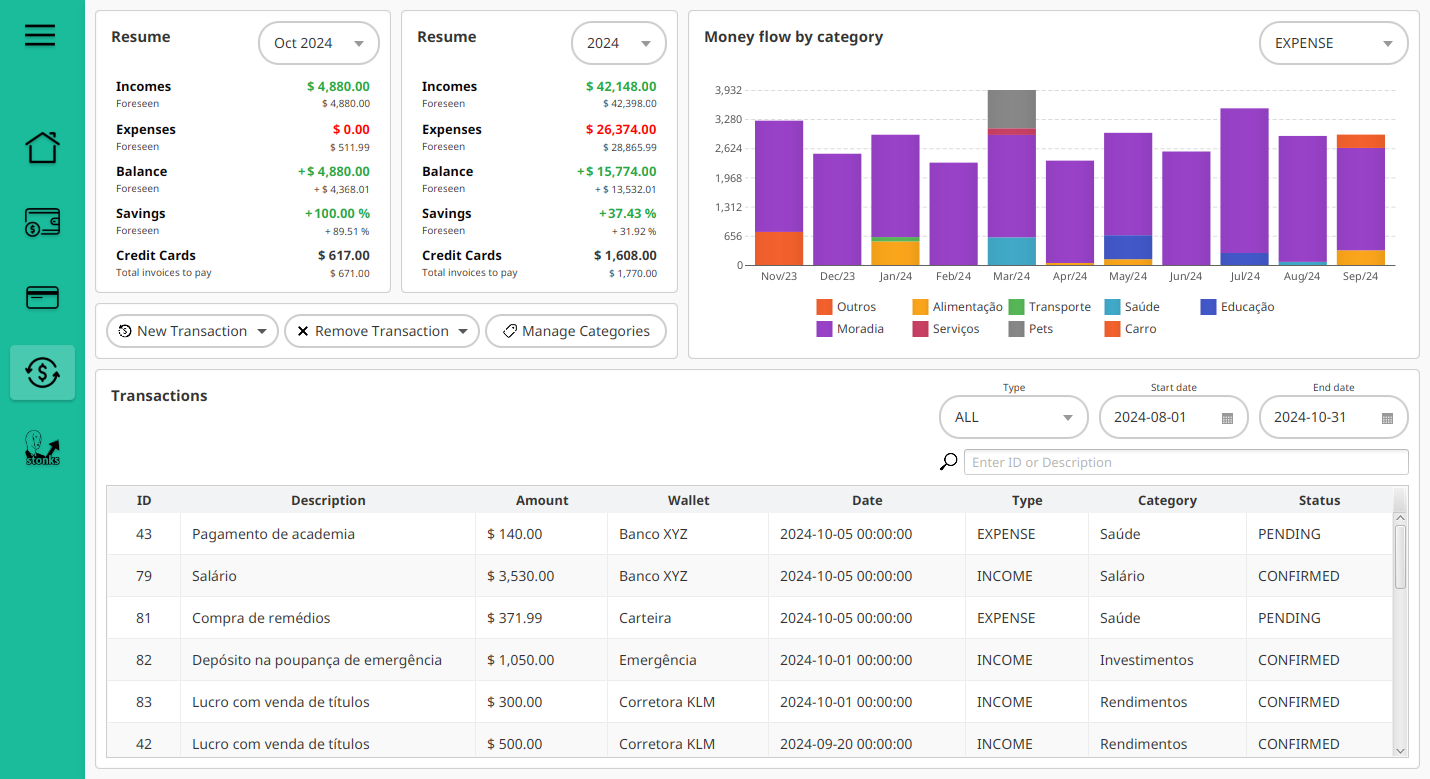
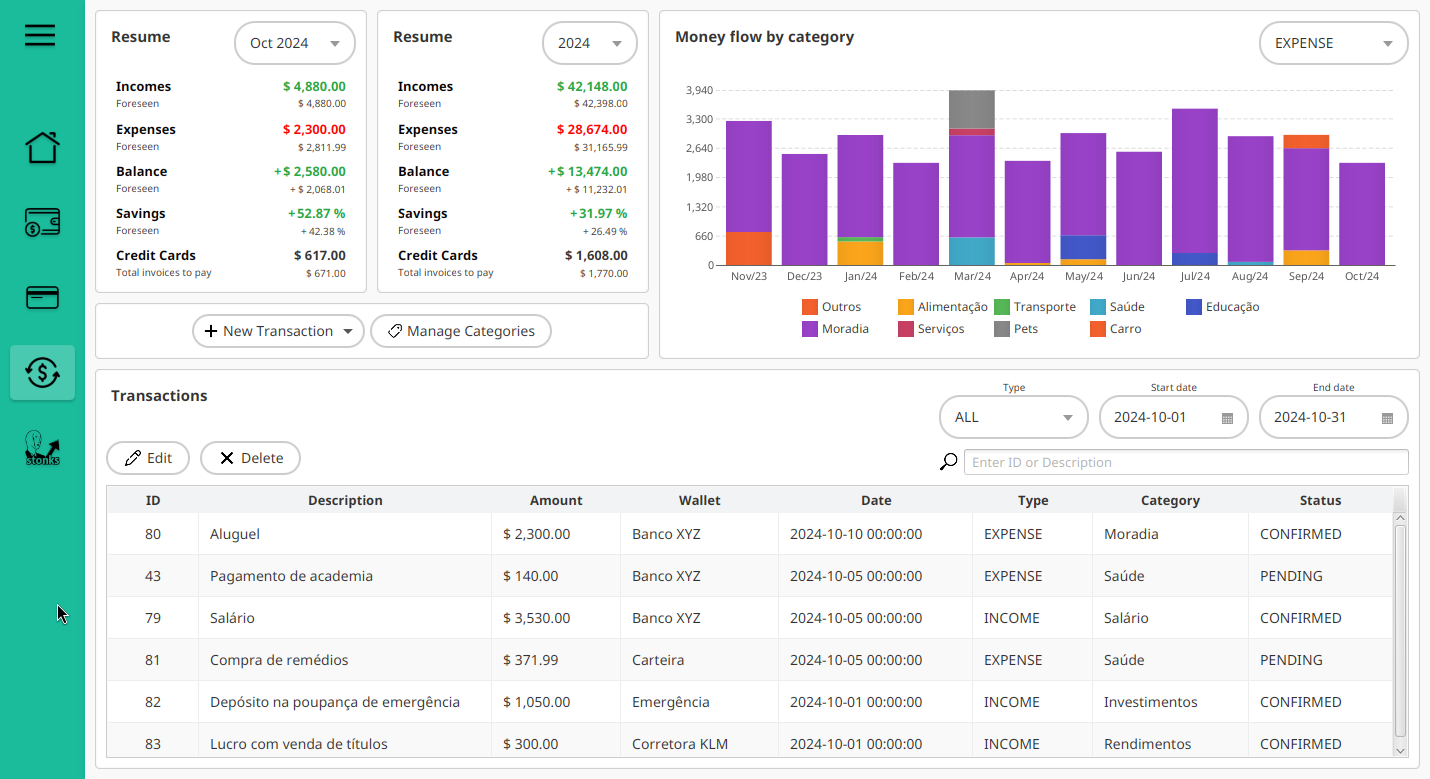
+ Corrigir método de obter o total de pagamentos pendentes do cartão de   crédito + Implementar novas consultas personalizadas + Adicionar porcentagem a barra de limite utilizado + Atualizar imagens das telas

diff --git a/src/main/resources/css/component/progress-bar.css b/src/main/resources/css/component/progress-bar.css
@@ -1,0 +1,35 @@
+/*
+ * Filename: progress-bar.css
+ * Created on: October 23, 2024
+ * Author: Lucas Araújo <araujolucas@dcc.ufmg.br>
+ */
+
+.progress-bar {
+  -fx-indeterminate-bar-length: 60;
+  -fx-indeterminate-bar-escape: true;
+  -fx-indeterminate-bar-flip: true;
+  -fx-indeterminate-bar-animation-time: 2;
+}
+
+.progress-bar > .bar {
+  -fx-background-color: linear-gradient(
+    to bottom,
+    derive(orange, -7%),
+    derive(orange, 0%),
+    derive(orange, -3%),
+    derive(orange, -9%)
+  );
+  -fx-background-insets: 0 0 0 0;
+  -fx-background-radius: 0;
+  -fx-padding: 0em;
+}
+
+.progress-bar:indeterminate > .bar {
+  -fx-background-color: linear-gradient(to left, transparent, orange);
+}
+
+.progress-bar > .track {
+  -fx-background-color: lightgray;
+  -fx-background-insets: 0;
+  -fx-background-radius: 0;
+}

diff --git a/src/main/java/org/mymoney/repositories/CreditCardPaymentRepository.java b/src/main/java/org/mymoney/repositories/CreditCardPaymentRepository.java
@@ -100,25 +100,27 @@ public interface CreditCardPaymentRepository
     GetTotalPendingPayments(@Param("year") Integer year);
 
     /**
-     * Get the total of all pending payments of a credit card from a specified month and
-     * year onward, including future months and the current month
+     * Get the total of all pending payments of a credit card
      * @param creditCardId The credit card id
-     * @param month The starting month (inclusive)
-     * @param year The starting year (inclusive)
-     * @return The total of all pending payments of all credit cards from the current
-     *     year onward
+     * @return The total of all pending payments of a credit card
      */
     @Query("SELECT COALESCE(SUM(ccp.amount), 0) "
            + "FROM CreditCardPayment ccp "
            + "JOIN ccp.creditCardDebt ccd "
            + "WHERE ccd.creditCard.id = :creditCardId "
-           + "AND strftime('%m', ccp.date) >= printf('%02d', :month) "
-           + "AND strftime('%Y', ccp.date) >= printf('%04d', :year) "
            + "AND ccp.wallet IS NULL")
     Double
-    GetPendingPayments(@Param("creditCardId") Long creditCardId,
-                       @Param("month") Integer     month,
-                       @Param("year") Integer      year);
+    GetTotalPendingPayments(@Param("creditCardId") Long creditCardId);
+
+    /**
+     * Get the total of all pending payments of all credit cards
+     * @return The total of all pending payments of all credit cards
+     */
+    @Query("SELECT COALESCE(SUM(ccp.amount), 0) "
+           + "FROM CreditCardPayment ccp "
+           + "WHERE ccp.wallet IS NULL")
+    Double
+    GetTotalPendingPayments();
 
     /**
      * Get the invoice amount of a credit card in a specified month and year

diff --git a/src/main/java/org/mymoney/ui/common/CreditCardPaneController.java b/src/main/java/org/mymoney/ui/common/CreditCardPaneController.java
@@ -7,7 +7,6 @@
 package org.mymoney.ui.common;
 
 import com.jfoenix.controls.JFXButton;
-import java.time.LocalDate;
 import java.time.YearMonth;
 import java.time.format.DateTimeFormatter;
 import javafx.fxml.FXML;
@@ -72,6 +71,9 @@ public class CreditCardPaneController
 
     @FXML
     private Label invoiceMonth;
+
+    @FXML
+    private Label limitProgressLabel;
 
     @FXML
     private JFXButton prevButton;
@@ -168,9 +170,7 @@ public class CreditCardPaneController
 
         Double limit = creditCard.GetMaxDebt();
         Double pendingPayments =
-            creditCardService.GetPendingPayments(creditCard.GetId(),
-                                                 LocalDate.now().getMonthValue(),
-                                                 LocalDate.now().getYear());
+            creditCardService.GetTotalPendingPayments(creditCard.GetId());
 
         Double limitAvailable =
             creditCardService.GetAvailableCredit(creditCard.GetId());
@@ -182,7 +182,9 @@ public class CreditCardPaneController
         limitAvailableLabel.setText(UIUtils.FormatCurrency(limitAvailable));
 
         // Set percentage of the usage of the limit
-        limitProgressBar.setProgress(limit == 0 ? 0 : pendingPayments / limit);
+        Double limitProgress = limit == 0 ? 0 : pendingPayments / limit;
+        limitProgressBar.setProgress(limitProgress);
+        limitProgressLabel.setText(UIUtils.FormatPercentage(limitProgress * 100));
 
         dueDateLabel.setText(creditCard.GetBillingDueDay().toString());
 

diff --git a/src/main/java/org/mymoney/services/CreditCardService.java b/src/main/java/org/mymoney/services/CreditCardService.java
@@ -296,14 +296,21 @@ public class CreditCardService
     }
 
     /**
-     * Get the total of all pending payments of a credit card from the current month and
-     * year onward, including future months and the current month
-     * @return The total of all pending payments of all credit cards from the current
-     *     month and year onward
+     * Get the total of all pending payments of a credit card
+     * @return The total of all pending payments of all credit cards
      */
-    public Double GetPendingPayments(Long crcId, Integer month, Integer year)
+    public Double GetTotalPendingPayments(Long crcId)
     {
-        return m_creditCardPaymentRepository.GetPendingPayments(crcId, month, year);
+        return m_creditCardPaymentRepository.GetTotalPendingPayments(crcId);
+    }
+
+    /**
+     * Get the total of all pending payments of all credit cards
+     * @return The total of all pending payments of all credit cards
+     */
+    public Double GetTotalPendingPayments()
+    {
+        return m_creditCardPaymentRepository.GetTotalPendingPayments();
     }
 
     /**

diff --git a/src/main/java/org/mymoney/ui/main/CreditCardController.java b/src/main/java/org/mymoney/ui/main/CreditCardController.java
@@ -223,8 +223,7 @@ public class CreditCardController
         Double totalDebts =
             creditCardService.GetTotalDebtAmount(selectedYear.getValue());
 
-        Double totalPendingPayments =
-            creditCardService.GetTotalPendingPayments(LocalDate.now().getYear());
+        Double totalPendingPayments = creditCardService.GetTotalPendingPayments();
 
         Label totalTotalDebtsLabel = new Label(UIUtils.FormatCurrency(totalDebts));
 
